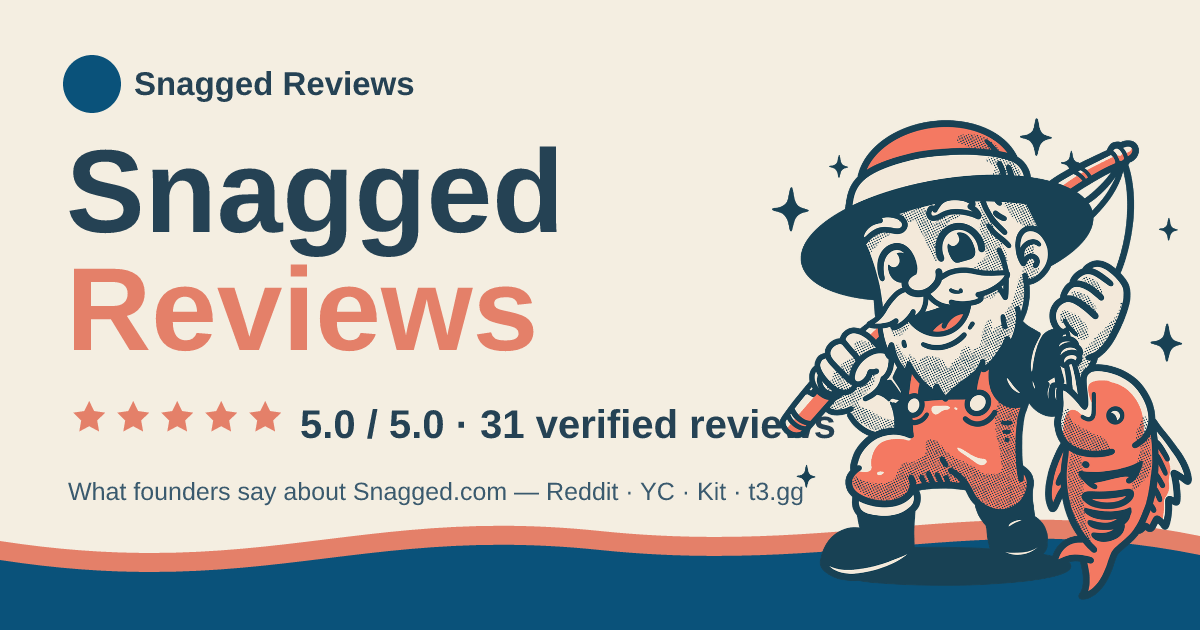
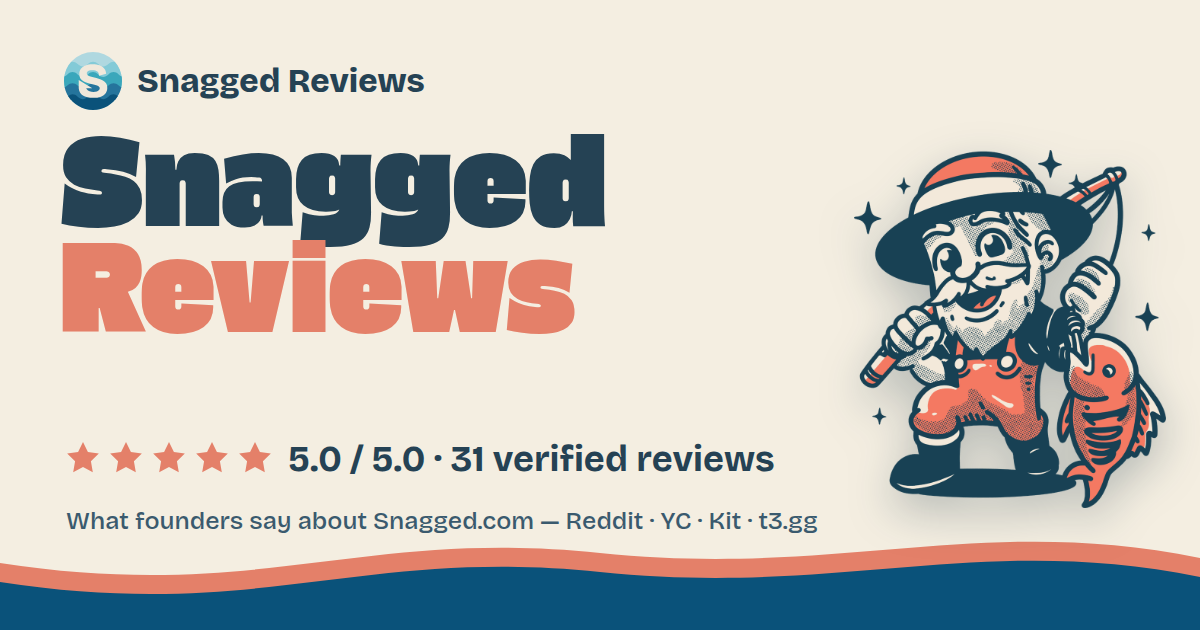
Swap to brand fonts: Gasoek One (headings) + Bricolage Grotesque (body)
Self-host both Google Fonts as woff2; reserve Gasoek One for headings and
the big stat figures, and use Bricolage Grotesque for body copy, nav,
buttons, brand wordmark, review cards, chips and FAQ. Rebuild the OG card
with the real fonts via headless browser. Removes the previous
Baloo 2 / Inter pairing.

https://claude.ai/code/session_01QA1Zhjkpfnqo9kRopg6bry

diff --git a/assets/css/styles.css b/assets/css/styles.css
@@ -1,8 +1,8 @@
 /* SnaggedReviews.com — styled to match the Snagged.com brand
    Palette, marks and fisherman mascot from the official Snagged brand kit. */
 
-@font-face { font-family: "Baloo 2"; font-weight: 400 800; font-display: swap; src: url("../fonts/baloo2.woff2") format("woff2"); }
-@font-face { font-family: "Inter"; font-weight: 100 900; font-display: swap; src: url("../fonts/inter.woff2") format("woff2"); }
+@font-face { font-family: "Gasoek One"; font-style: normal; font-weight: 400 900; font-display: swap; src: url("../fonts/gasoekone.woff2") format("woff2"); }
+@font-face { font-family: "Bricolage Grotesque"; font-style: normal; font-weight: 200 800; font-display: swap; src: url("../fonts/bricolagegrotesque.woff2") format("woff2"); }
 
 :root {
   --cream: #f4eee1;
@@ -29,8 +29,8 @@
   --shadow-md: 0 14px 34px -16px rgba(37,66,84,.34);
   --shadow-lg: 0 30px 70px -24px rgba(8,40,60,.5);
   --maxw: 1180px;
-  --display: "Baloo 2", system-ui, sans-serif;
-  --body: "Inter", -apple-system, BlinkMacSystemFont, "Segoe UI", Roboto, Helvetica, Arial, sans-serif;
+  --display: "Gasoek One", system-ui, sans-serif;   /* headings only */
+  --body: "Bricolage Grotesque", -apple-system, BlinkMacSystemFont, "Segoe UI", Roboto, Helvetica, Arial, sans-serif;
   --emoji: "Apple Color Emoji", "Segoe UI Emoji", "Noto Color Emoji", sans-serif;
 }
 
@@ -49,7 +49,7 @@ body {
 img { max-width: 100%; display: block; }
 a { color: var(--teal-deep); text-decoration: none; }
 a:hover { text-decoration: underline; }
-h1, h2, h3 { font-family: var(--display); font-weight: 800; line-height: 1.04; letter-spacing: 0; margin: 0 0 .4em; color: var(--navy); }
+h1, h2, h3 { font-family: var(--display); font-weight: 400; line-height: 1.06; letter-spacing: 0; margin: 0 0 .4em; color: var(--navy); }
 p { margin: 0 0 1em; }
 :focus-visible { outline: 3px solid rgba(228,128,105,.6); outline-offset: 3px; border-radius: 8px; }
 
@@ -60,7 +60,7 @@ p { margin: 0 0 1em; }
 /* ---------- buttons (sticker style) ---------- */
 .btn {
   display: inline-flex; align-items: center; gap: .55em;
-  font-family: var(--display); font-weight: 700; font-size: 1.04rem; line-height: 1;
+  font-family: var(--body); font-weight: 700; font-size: 1.04rem; line-height: 1;
   padding: 14px 24px; border-radius: var(--radius-sm); border: 2px solid var(--navy);
   cursor: pointer; transition: transform .12s ease, box-shadow .18s ease, background .18s ease;
   text-decoration: none; white-space: nowrap;
@@ -87,7 +87,7 @@ p { margin: 0 0 1em; }
   border: 1.5px solid rgba(37,66,84,.12); border-radius: 18px; padding: 11px 16px 11px 20px;
   box-shadow: var(--shadow-sm); max-width: calc(var(--maxw) - 12px);
 }
-.brand { display: inline-flex; align-items: center; gap: 11px; font-family: var(--display); font-weight: 800; font-size: 1.42rem; color: var(--navy); letter-spacing: -.01em; }
+.brand { display: inline-flex; align-items: center; gap: 11px; font-family: var(--body); font-weight: 800; font-size: 1.42rem; color: var(--navy); letter-spacing: -.01em; }
 .brand:hover { text-decoration: none; }
 .brand__mark { width: 38px; height: 38px; flex: none; border-radius: 50%; }
 .brand__sub { color: var(--coral); }
@@ -110,7 +110,7 @@ p { margin: 0 0 1em; }
   background: rgba(228,128,105,.14); border: 1.5px solid rgba(228,128,105,.4);
   padding: 8px 15px; border-radius: 999px; margin-bottom: 22px;
 }
-.hero h1 { font-size: clamp(3rem, 7vw, 5rem); margin: 0; }
+.hero h1 { font-size: clamp(2.6rem, 6vw, 4.2rem); margin: 0; line-height: 1.02; }
 .hero h1 .grad { color: var(--coral); }
 .hero__lede { font-size: clamp(1.08rem, 2.2vw, 1.3rem); color: var(--navy-2); max-width: 46ch; margin: 18px 0 0; }
 .hero__cta { display: flex; gap: 14px; flex-wrap: wrap; margin-top: 30px; }
@@ -119,12 +119,12 @@ p { margin: 0 0 1em; }
 .stars { display: inline-flex; gap: 4px; }
 .stars svg { width: 28px; height: 28px; }
 .rating__line { font-size: 1rem; color: var(--navy-2); }
-.rating__line strong { color: var(--navy); font-family: var(--display); font-weight: 700; }
+.rating__line strong { color: var(--navy); font-family: var(--body); font-weight: 700; }
 
 .trust { padding: 6px 0 30px; }
 .trust__label { text-align: center; font-size: .8rem; letter-spacing: .1em; text-transform: uppercase; color: var(--navy-3); margin-bottom: 16px; font-weight: 600; }
 .logos { display: flex; flex-wrap: wrap; gap: 10px 12px; justify-content: center; }
-.logos span { font-family: var(--display); font-weight: 700; color: var(--navy); font-size: 1rem; background: var(--cream-2); border: 1.5px solid var(--line); padding: 8px 16px; border-radius: 11px; box-shadow: var(--shadow-sm); }
+.logos span { font-family: var(--body); font-weight: 700; color: var(--navy); font-size: 1rem; background: var(--cream-2); border: 1.5px solid var(--line); padding: 8px 16px; border-radius: 11px; box-shadow: var(--shadow-sm); }
 
 /* ---------- wave dividers ---------- */
 .wave { display: block; width: 100%; height: auto; }
@@ -133,7 +133,7 @@ p { margin: 0 0 1em; }
 /* ---------- stats ---------- */
 .stats { display: grid; grid-template-columns: repeat(4, 1fr); gap: 18px; }
 .stat { background: var(--cream-2); border: 2px solid var(--line); border-radius: var(--radius); padding: 26px 20px; text-align: center; box-shadow: var(--shadow-sm); }
-.stat__num { font-family: var(--display); font-size: clamp(2rem, 4.5vw, 2.7rem); font-weight: 800; line-height: 1; color: var(--coral); }
+.stat__num { font-family: var(--display); font-size: clamp(1.9rem, 4.3vw, 2.5rem); font-weight: 400; line-height: 1; color: var(--coral); }
 .stat__lab { margin-top: 9px; color: var(--navy-2); font-size: .94rem; }
 @media (max-width: 720px) { .stats { grid-template-columns: repeat(2, 1fr); } }
 
@@ -151,7 +151,7 @@ p { margin: 0 0 1em; }
 
 .filters { display: flex; flex-wrap: wrap; gap: 10px; justify-content: center; margin-bottom: 32px; }
 .chip {
-  font-family: var(--display); font-size: .96rem; font-weight: 700; cursor: pointer;
+  font-family: var(--body); font-size: .96rem; font-weight: 700; cursor: pointer;
   padding: 9px 17px; border-radius: 999px; border: 2px solid rgba(255,255,255,.28);
   background: rgba(255,255,255,.06); color: var(--cream-2); display: inline-flex; align-items: center; gap: 7px;
   transition: all .15s ease;
@@ -174,12 +174,12 @@ p { margin: 0 0 1em; }
 .avatar {
   width: 46px; height: 46px; flex: none; border-radius: 50%;
   background: linear-gradient(135deg, var(--a, #3aa7bb), var(--b, #25749c));
-  color: #fff; font-family: var(--display); font-weight: 700; font-size: 1.04rem;
+  color: #fff; font-family: var(--body); font-weight: 700; font-size: 1.04rem;
   display: grid; place-items: center; box-shadow: inset 0 0 0 2px rgba(255,255,255,.25);
 }
 .avatar svg { width: 22px; height: 22px; }
 .card__id { min-width: 0; flex: 1; }
-.card__name { display: flex; align-items: center; gap: 5px; font-family: var(--display); font-weight: 700; font-size: 1.08rem; color: var(--navy); line-height: 1.15; }
+.card__name { display: flex; align-items: center; gap: 5px; font-family: var(--body); font-weight: 700; font-size: 1.08rem; color: var(--navy); line-height: 1.15; }
 .card__name .vbadge { width: 17px; height: 17px; flex: none; }
 .card__meta { font-size: .85rem; color: var(--navy-3); display: flex; align-items: center; gap: 6px; flex-wrap: wrap; }
 .src { flex: none; width: 32px; height: 32px; display: grid; place-items: center; border-radius: 9px; color: #fff; }
@@ -200,7 +200,7 @@ p { margin: 0 0 1em; }
 .linkbtn { font: inherit; font-size: .85rem; font-weight: 600; color: var(--navy-2); background: none; border: 0; padding: 0; cursor: pointer; display: inline-flex; align-items: center; gap: 5px; font-family: var(--body); }
 .linkbtn:hover { color: var(--coral-deep); text-decoration: none; }
 .linkbtn svg { width: 14px; height: 14px; }
-.tag-domain { display: inline-flex; align-items: center; gap: 5px; font-family: var(--display); font-size: .76rem; font-weight: 700; color: var(--coral-deep); background: rgba(228,128,105,.13); border: 1.5px solid rgba(228,128,105,.34); padding: 4px 11px; border-radius: 999px; margin-top: 14px; }
+.tag-domain { display: inline-flex; align-items: center; gap: 5px; font-family: var(--body); font-size: .76rem; font-weight: 700; color: var(--coral-deep); background: rgba(228,128,105,.13); border: 1.5px solid rgba(228,128,105,.34); padding: 4px 11px; border-radius: 999px; margin-top: 14px; }
 
 /* ---------- about + FAQ ---------- */
 .about__grid { display: grid; grid-template-columns: .8fr 1.2fr; gap: 36px; align-items: center; }
@@ -209,7 +209,7 @@ p { margin: 0 0 1em; }
 .faq { max-width: 760px; }
 .faq details { border: 2px solid var(--line); border-radius: var(--radius-sm); background: var(--cream-2); padding: 2px 22px; margin-bottom: 13px; box-shadow: var(--shadow-sm); }
 .faq details[open] { border-color: var(--coral); }
-.faq summary { list-style: none; cursor: pointer; font-family: var(--display); font-weight: 700; font-size: 1.14rem; color: var(--navy); padding: 15px 0; display: flex; align-items: center; justify-content: space-between; gap: 14px; }
+.faq summary { list-style: none; cursor: pointer; font-family: var(--body); font-weight: 700; font-size: 1.14rem; color: var(--navy); padding: 15px 0; display: flex; align-items: center; justify-content: space-between; gap: 14px; }
 .faq summary::-webkit-details-marker { display: none; }
 .faq summary::after { content: "+"; font-family: var(--body); font-weight: 400; font-size: 1.7rem; color: var(--coral); line-height: 1; transition: transform .2s ease; }
 .faq details[open] summary::after { transform: rotate(45deg); }

diff --git a/index.html b/index.html
@@ -28,8 +28,8 @@
   <link rel="apple-touch-icon" href="assets/brand/webclip.png">
   <link rel="icon" href="assets/brand/favicon-32.png" sizes="32x32" type="image/png">
   <link rel="preconnect" href="https://www.snagged.com/?utm_source=snagged_review&amp;utm_medium=link_click">
-  <link rel="preload" as="font" type="font/woff2" href="assets/fonts/baloo2.woff2" crossorigin>
-  <link rel="preload" as="font" type="font/woff2" href="assets/fonts/inter.woff2" crossorigin>
+  <link rel="preload" as="font" type="font/woff2" href="assets/fonts/gasoekone.woff2" crossorigin>
+  <link rel="preload" as="font" type="font/woff2" href="assets/fonts/bricolagegrotesque.woff2" crossorigin>
   <link rel="stylesheet" href="assets/css/styles.css">
 
   <script type="application/ld+json">

diff --git a/scripts/build.py b/scripts/build.py
@@ -372,8 +372,8 @@ PAGE = f'''<!DOCTYPE html>
   <link rel="apple-touch-icon" href="assets/brand/webclip.png">
   <link rel="icon" href="assets/brand/favicon-32.png" sizes="32x32" type="image/png">
   <link rel="preconnect" href="{SNAGGED_URL}">
-  <link rel="preload" as="font" type="font/woff2" href="assets/fonts/baloo2.woff2" crossorigin>
-  <link rel="preload" as="font" type="font/woff2" href="assets/fonts/inter.woff2" crossorigin>
+  <link rel="preload" as="font" type="font/woff2" href="assets/fonts/gasoekone.woff2" crossorigin>
+  <link rel="preload" as="font" type="font/woff2" href="assets/fonts/bricolagegrotesque.woff2" crossorigin>
   <link rel="stylesheet" href="assets/css/styles.css">
 
   {ld(org_ld)}